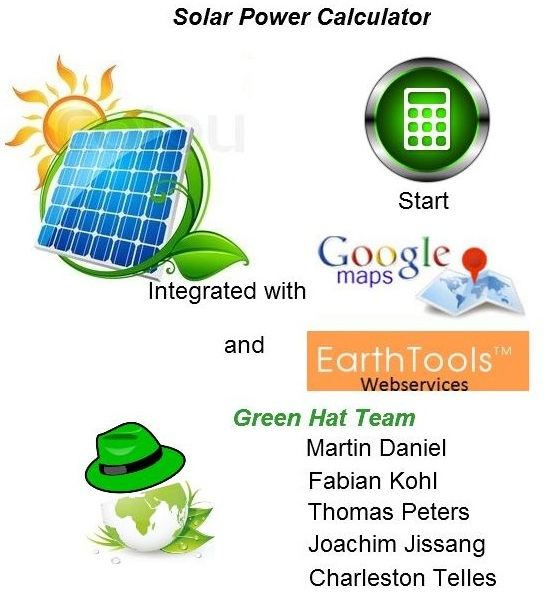
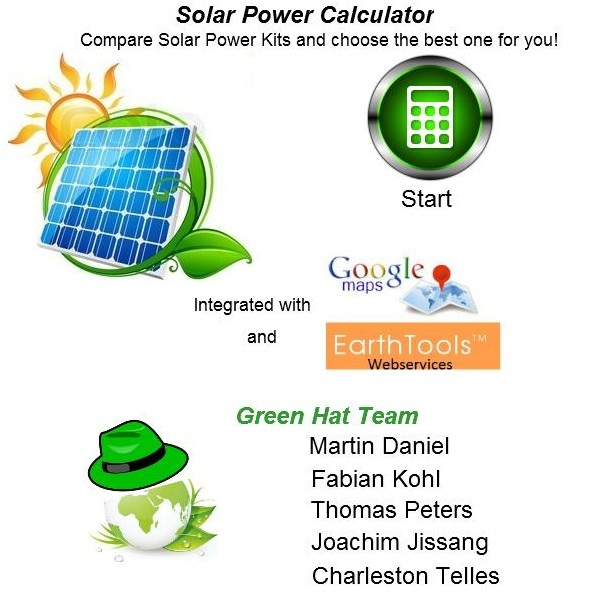
added custom equipment to the list added pictures to the presentation

diff --git a/SolarPowerCalcWeb/war/links.html b/SolarPowerCalcWeb/war/links.html
@@ -1,0 +1,10 @@
+<html>
+<body>
+<a href="/images/marketing1.jpg">marketing 1</a><br>
+<a href="/images/marketing2.jpg">marketing 2</a><br><BR>
+<a href="/images/design1.jpg">design 1</a><br>
+<a href="/images/design2.jpg">design 2</a><br><br>
+<a href="/images/WS-contract.jpg">webservice contract</a><br>
+<a href="/images/WS-schema.jpg">schemas</a><br>
+</body>
+</html>

diff --git a/SolarPowerCalcWeb/src/au/edu/qut/inn372/greenhat/dao/gae/EquipmentDAOImpl.java b/SolarPowerCalcWeb/src/au/edu/qut/inn372/greenhat/dao/gae/EquipmentDAOImpl.java
@@ -21,6 +21,51 @@ public class EquipmentDAOImpl implements Serializable, EquipmentDAO {
 	public List<Equipment> getEquipments() {
 		List<Equipment> equipments = new ArrayList<Equipment>();
 		
+		
+		
+		Equipment equipment5 = new Equipment();
+		
+		Inverter inverter5 = new Inverter();
+		inverter5.setEfficiency(100);
+		inverter5.setCost(0);
+		inverter5.setBrand("Custom Inverter");
+		
+		Panel panel5 = new Panel();
+		panel5.setEfficiency(100);
+		panel5.setEfficiencyLoss(0);
+		panel5.setPowerRating(300);
+		panel5.setCost(0);
+		panel5.setSize(2.25);
+		panel5.setBrand("Custom Panel");
+		
+		Battery battery5 = new Battery();
+		battery5.setCost(500);
+		
+		equipment5.setInverter(inverter5);
+		equipment5.setBattery(battery5);
+		equipment5.addPanel(panel5);
+		equipment5.addPanel(panel5);
+		equipment5.addPanel(panel5);
+		equipment5.addPanel(panel5);
+		equipment5.addPanel(panel5);
+		equipment5.addPanel(panel5);
+		equipment5.addPanel(panel5);
+		equipment5.addPanel(panel5);
+		equipment5.addPanel(panel5);
+		equipment5.addPanel(panel5);
+		//equipment5.addPanel(panel5);
+		//equipment5.addPanel(panel5);
+		
+		equipment5.setKitName("Custom Kit");
+		//equipment3.setCost(4000);
+		equipment5.setCost(equipment5.getTotalPanels() * panel5.getCost() + inverter5.getCost());
+		equipment5.setSize(3.6);
+		
+		equipments.add(equipment5);
+		
+		
+		
+		
 		Equipment equipment1 = new Equipment();
 		
 		Inverter inverter1 = new Inverter();

diff --git a/SolarPowerCalcWeb/src/au/edu/qut/inn372/greenhat/dao/gae/PanelDAOImpl.java b/SolarPowerCalcWeb/src/au/edu/qut/inn372/greenhat/dao/gae/PanelDAOImpl.java
@@ -113,6 +113,15 @@ public class PanelDAOImpl implements Serializable, PanelDAO {
 		recSolarPanel.setEfficiencyLoss(0.7);
 		recSolarPanel.setPowerRating(250);
 		recSolarPanel.setSize(2.25);
+		
+		Panel recCustomPanel = new Panel();
+		recCustomPanel.setId(1);
+		recCustomPanel.setBrand("Custom Panel");
+		recCustomPanel.setCost(0);
+		recCustomPanel.setEfficiency(100);
+		recCustomPanel.setEfficiencyLoss(0);
+		recCustomPanel.setPowerRating(250);
+		recCustomPanel.setSize(2.25);
 	    
 		panelList.add(bPSolarPanel);
 		panelList.add(sharpSolarPanel);
@@ -124,6 +133,7 @@ public class PanelDAOImpl implements Serializable, PanelDAO {
 		panelList.add(globalSolarPanel);
 		panelList.add(solarFunSolarPanel);
 		panelList.add(recSolarPanel);
+		panelList.add(recCustomPanel);
 	    return panelList;
 	}
 }

diff --git a/SolarPowerCalcWeb/src/au/edu/qut/inn372/greenhat/ws/CalculatorControllerWS.java b/SolarPowerCalcWeb/src/au/edu/qut/inn372/greenhat/ws/CalculatorControllerWS.java
@@ -88,7 +88,8 @@ public class CalculatorControllerWS {
 	@WebMethod
 	@WebResult(name = "equipments") 
 	public Equipment[] getEquipments(){
-		List<Equipment> arrayList = equipmentDAO.getEquipments();		
+		List<Equipment> arrayList = equipmentDAO.getEquipments();	
+		arrayList.remove(0);//remove custom equipment
 		Equipment[] list = new Equipment[arrayList.size()];
 		arrayList.toArray(list);
 		return list;
@@ -118,7 +119,8 @@ public class CalculatorControllerWS {
 	@WebMethod
 	@WebResult(name = "panels") 
 	public Panel[] getPanels(){
-		List<Panel> arrayList = panelDAO.getPanels();		
+		List<Panel> arrayList = panelDAO.getPanels();	
+		arrayList.remove(arrayList.size()-1);// remove custom panel
 		Panel[] list = new Panel[arrayList.size()];
 		arrayList.toArray(list);
 		return list;

diff --git a/SolarPowerCalcWeb/src/au/edu/qut/inn372/greenhat/dao/gae/InverterDAOImpl.java b/SolarPowerCalcWeb/src/au/edu/qut/inn372/greenhat/dao/gae/InverterDAOImpl.java
@@ -93,6 +93,13 @@ public class InverterDAOImpl implements Serializable, InverterDAO {
 		recSolarPanel.setCost(400);
 		recSolarPanel.setEfficiency(95);
 		recSolarPanel.setEfficiencyLoss(0.7);
+		
+		Inverter recCustomInverter = new Inverter();
+		recCustomInverter.setId(1);
+		recCustomInverter.setBrand("Custom Inverter");
+		recCustomInverter.setCost(0);
+		recCustomInverter.setEfficiency(100);
+		recCustomInverter.setEfficiencyLoss(0);
 	    
 		panelList.add(bPSolarInverter);
 		panelList.add(sharpSolarInverter);
@@ -104,6 +111,7 @@ public class InverterDAOImpl implements Serializable, InverterDAO {
 		panelList.add(globalSolarPanel);
 		panelList.add(solarFunSolarPanel);
 		panelList.add(recSolarPanel);
+		panelList.add(recCustomInverter);
 	    return panelList;
 	}
 }

diff --git a/SolarPowerCalcWeb/src/au/edu/qut/inn372/greenhat/controller/CalculatorController.java b/SolarPowerCalcWeb/src/au/edu/qut/inn372/greenhat/controller/CalculatorController.java
@@ -424,6 +424,7 @@ public class CalculatorController implements Serializable {
 		list.add(new SelectItem("Global Solar Panels", "Global Solar Panels"));
 		list.add(new SelectItem("Solarfun", "Solarfun"));
 		list.add(new SelectItem("REC Solar Panels", "REC Solar Panels"));
+		list.add(new SelectItem("Custom Panel", "Custom Panel"));
 		return list;
 	}
 	
@@ -443,6 +444,7 @@ public class CalculatorController implements Serializable {
 	    list.add(new SelectItem("Global Solar Inverters", "Global Solar Inverters"));
 	    list.add(new SelectItem("Solarfun Inverters", "Solarfun Inverters"));
 	    list.add(new SelectItem("REC Solar Inverters", "REC Solar Inverters"));
+	    list.add(new SelectItem("Custom Inverter", "Custom Inverter"));
 	    return list;
 	}
 
